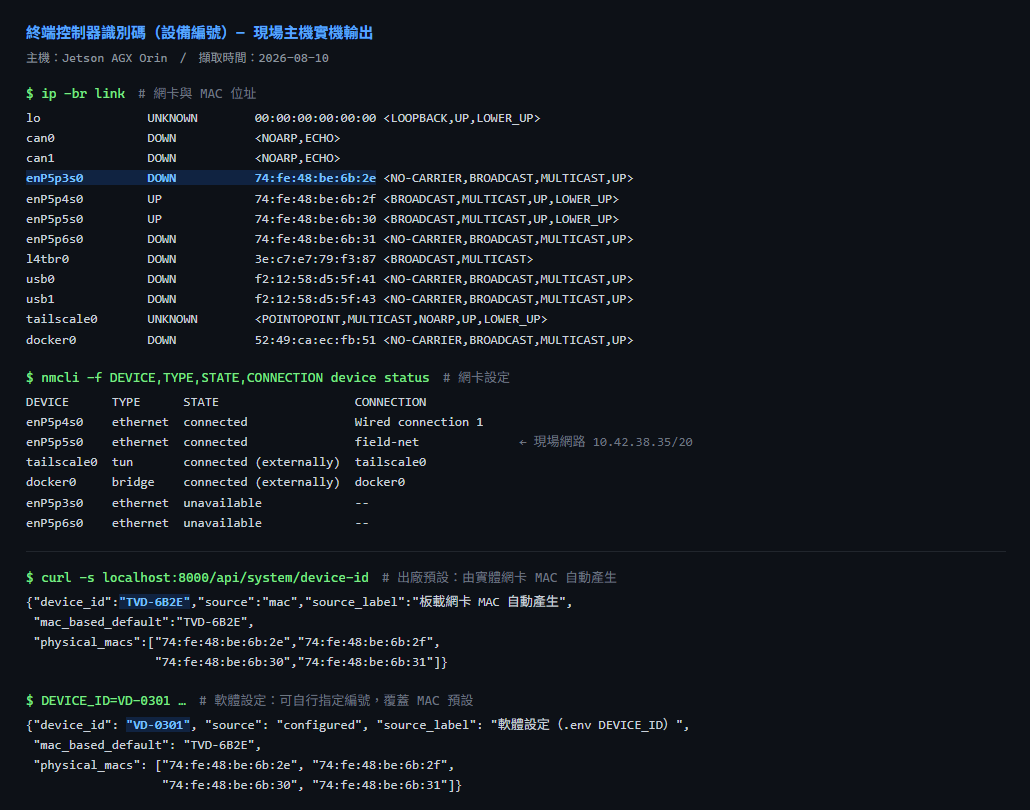
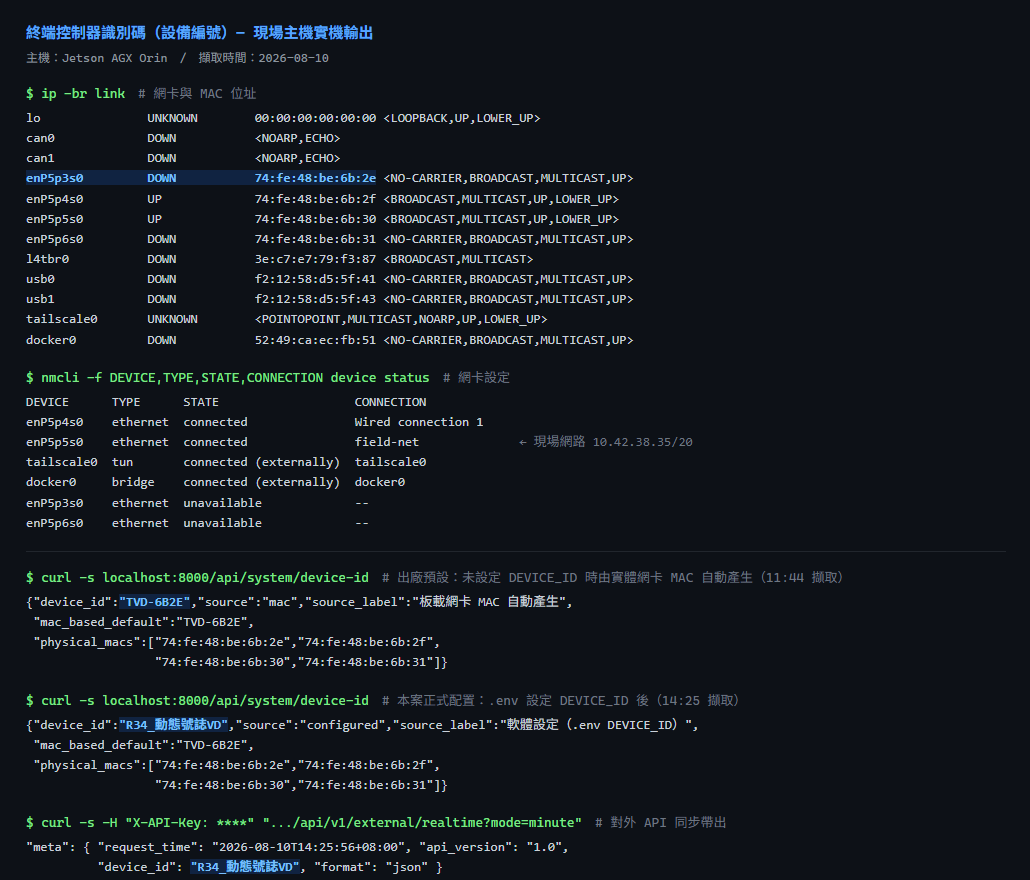
設備編號配置為 R34_動態號誌VD，交付文件與截圖同步更新
出貨前於現場機 .env 設定正式編號並重啟驗證：
  /api/system/device-id → device_id=R34_動態號誌VD, source=configured
  對外 API meta.device_id → R34_動態號誌VD（同一時刻一致）

- 交付文件的 UT-ID-002 / UT-ID-003 / UT-ID-004 / 符合性對照 / 結論 / 附錄 A
  改用本案實際配置值，不再用 VD-0301 範例值
- 實機驗證環境表補上「本案配置設備編號」欄
- 截圖改為三段：MAC 出廠預設、設定後、對外 API meta 同步帶出

.env 未納入版控且部署只做 git reset --hard（無 git clean），編號不會被部署覆蓋。

Changed region(s): [[0.0, 0.0309, 0.8078, 1.0], [0.4971, 0.4938, 0.6835, 0.5556], [0.5903, 0.9259, 0.7146, 0.9568]]

diff --git a/docs/識別碼設定_UNITEST_業主確認版.md b/docs/識別碼設定_UNITEST_業主確認版.md
@@ -63,6 +63,7 @@
 | 現場 IP | `10.42.38.35/20` |
 | 板載實體 MAC 範圍 | `74:fe:48:be:6b:2e` ~ `74:fe:48:be:6b:31` |
 | 設備識別碼查詢 API | `GET /api/system/device-id` |
+| **本案配置設備編號** | **`R34_動態號誌VD`** |
 
 ---
 
@@ -111,10 +112,10 @@ curl -s localhost:8000/api/system/device-id
 
 **測試步驟**
 
-1. 於 `.env` 設定：
+1. 於 `.env` 設定本案配置之設備編號：
 
 ```dotenv
-DEVICE_ID=VD-0301
+DEVICE_ID=R34_動態號誌VD
 ```
 
 2. 依系統標準程序重新啟動服務。
@@ -128,7 +129,7 @@ curl -s localhost:8000/api/system/device-id
 
 ```json
 {
-  "device_id": "VD-0301",
+  "device_id": "R34_動態號誌VD",
   "source": "configured",
   "source_label": "軟體設定（.env DEVICE_ID）",
   "mac_based_default": "TVD-6B2E",
@@ -143,7 +144,7 @@ curl -s localhost:8000/api/system/device-id
 
 **驗證結果**
 
-- `device_id` 已由預設值 `TVD-6B2E` 改為指定值 `VD-0301`。
+- `device_id` 已由預設值 `TVD-6B2E` 改為本案指定值 `R34_動態號誌VD`。
 - `source` 已由 `mac` 改為 `configured`。
 - 系統可明確辨識設備編號之來源。
 - 軟體設定值優先於 MAC 預設值。
@@ -173,12 +174,12 @@ curl -s localhost:8000/api/system/device-id
 meta.device_id
 ```
 
-應與目前設定之 `DEVICE_ID` 完全一致，例如：
+應與目前設定之 `DEVICE_ID` 完全一致：
 
 ```json
 {
   "meta": {
-    "device_id": "VD-0301"
+    "device_id": "R34_動態號誌VD"
   }
 }
 ```
@@ -188,7 +189,7 @@ meta.device_id
 - `meta.device_id = DEVICE_ID`：PASS
 - 不一致或未輸出：FAIL
 
-**實機結果**（2026-08-10 11:45，現場主機，當時為 MAC 預設模式）
+**實機結果**（2026-08-10 14:25，現場主機，已配置正式設備編號）
 
 ```bash
 curl -s -H "X-API-Key: ****" "localhost:8000/api/v1/external/realtime?mode=minute"
@@ -197,22 +198,21 @@ curl -s -H "X-API-Key: ****" "localhost:8000/api/v1/external/realtime?mode=minut
 ```json
 {
   "meta": {
-    "request_time": "2026-08-10T11:45:18.210509+08:00",
+    "request_time": "2026-08-10T14:25:56.134350+08:00",
     "api_version": "1.0",
-    "device_id": "TVD-6B2E",
+    "device_id": "R34_動態號誌VD",
     "format": "json"
   }
 }
 ```
 
-同一時間 `GET /api/system/device-id` 回傳 `TVD-6B2E`，兩者一致。
+同一時間 `GET /api/system/device-id` 回傳 `R34_動態號誌VD`，兩者一致。
 
 **判定：PASS**
 
-> 上述抽驗於未指定 `DEVICE_ID` 之預設狀態下取得，證明對外 API 之 `meta.device_id`
-> 係取自系統目前實際採用之設備編號（同一來源），而非另行寫死之常數。
-> 業主指定 `DEVICE_ID` 後，對外 API 亦將同步帶出該指定值；
-> 建議於現場驗收時，依實際配置之設備編號再抽驗一筆並留存截圖。
+> 對外 API 之 `meta.device_id` 與系統設定值取自同一來源，非另行寫死之常數。
+> 先前於未設定 `DEVICE_ID` 之預設狀態下抽驗時回傳 `TVD-6B2E`，
+> 設定後即同步變更為 `R34_動態號誌VD`，可證明兩者連動。
 
 ---
 
@@ -225,7 +225,7 @@ curl -s -H "X-API-Key: ****" "localhost:8000/api/v1/external/realtime?mode=minut
 
 | 終端控制器 | `DEVICE_ID` | 預期 API 回傳 |
 |---|---|---|
-| Controller-01 | `VD-0301` | `VD-0301` |
+| Controller-01（本案） | `R34_動態號誌VD` | `R34_動態號誌VD` |
 | Controller-02 | `VD-0302` | `VD-0302` |
 | Controller-03 | `VD-0303` | `VD-0303` |
 
@@ -248,7 +248,8 @@ curl -s -H "X-API-Key: ****" "localhost:8000/api/v1/external/realtime?mode=minut
 1. `ip -br link`：確認板載網卡及 MAC 位址。
 2. `nmcli -f DEVICE,TYPE,STATE,CONNECTION device status`：確認現場使用之網路介面與連線狀態。
 3. `GET /api/system/device-id`（未指定 `DEVICE_ID`）：回傳 `TVD-6B2E`，`source=mac`。
-4. 指定 `DEVICE_ID=VD-0301` 後：回傳 `VD-0301`，`source=configured`。
+4. 設定 `DEVICE_ID=R34_動態號誌VD` 後：回傳 `R34_動態號誌VD`，`source=configured`。
+5. 對外 API `/api/v1/external/realtime` 之 `meta.device_id` 同步帶出 `R34_動態號誌VD`。
 
 由上述實機結果可確認：
 
@@ -265,7 +266,7 @@ curl -s -H "X-API-Key: ****" "localhost:8000/api/v1/external/realtime?mode=minut
 |---|---|---|---|
 | 每一終端控制器具有通訊識別碼 | 系統提供 `DEVICE_ID` | `GET /api/system/device-id` | PASS |
 | 可使用 DIP SWITCH 16 位元**或軟體控制** | 本系統採 `.env DEVICE_ID` 軟體設定 | UT-ID-002 | PASS |
-| 設備編號可由人員指定 | 修改 `DEVICE_ID` 後重新啟動服務 | `TVD-6B2E` → `VD-0301` | PASS |
+| 設備編號可由人員指定 | 修改 `DEVICE_ID` 後重新啟動服務 | `TVD-6B2E` → `R34_動態號誌VD` | PASS |
 | 設定值可被系統識別 | API 回傳 `source=configured` | API 查詢 | PASS |
 | 各終端設備之編號應個別化 | 每台設備配置不同 `DEVICE_ID` | 設備編號清冊／多機抽驗 | 部署驗收確認 |
 | 對外通訊攜帶設備編號 | `/api/v1/external/*` 之 `meta.device_id` | UT-ID-003 對外 API 抽驗 | PASS |
@@ -279,7 +280,7 @@ curl -s -H "X-API-Key: ****" "localhost:8000/api/v1/external/realtime?mode=minut
 實機測試已證明：
 
 - 未設定時，系統可由板載實體網卡產生預設識別碼 `TVD-6B2E`。
-- 設定 `.env` 之 `DEVICE_ID=VD-0301` 後，設備編號可成功改為 `VD-0301`。
+- 設定 `.env` 之 `DEVICE_ID=R34_動態號誌VD` 後，設備編號可成功改為 `R34_動態號誌VD`。
 - API 明確回傳 `source=configured`，證明目前設備編號為軟體設定值。
 
 ### Unit Test 判定
@@ -321,10 +322,10 @@ nmcli -f DEVICE,TYPE,STATE,CONNECTION device status
 curl -s localhost:8000/api/system/device-id
 ```
 
-正式指定設備編號：
+正式指定設備編號（本案配置值）：
 
 ```dotenv
-DEVICE_ID=VD-0301
+DEVICE_ID=R34_動態號誌VD
 ```
 
 重新啟動服務後，再次執行：
@@ -333,7 +334,7 @@ DEVICE_ID=VD-0301
 curl -s localhost:8000/api/system/device-id
 ```
 
-預期 `device_id` 為 `VD-0301`，且 `source` 為 `configured`。
+預期 `device_id` 為 `R34_動態號誌VD`，且 `source` 為 `configured`。
 
 ---
 
